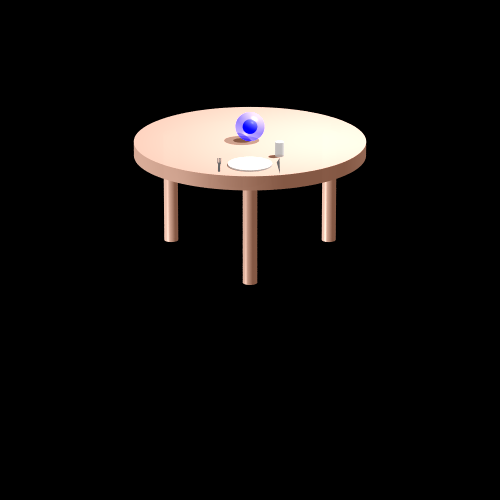
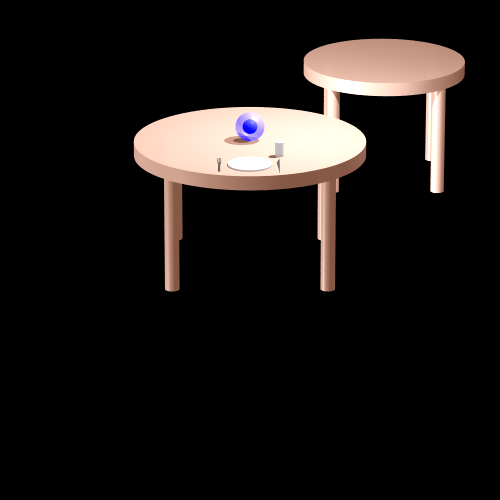
table component

diff --git a/unitTests/renderer/ImprovementTest.java b/unitTests/renderer/ImprovementTest.java
@@ -1,11 +1,14 @@
 package renderer;
 
+import objects.Table;
 import org.junit.jupiter.api.Test;
 
 import lighting.*;
 import geometries.*;
 import primitives.*;
 import renderer.scene.Scene;
+
+import java.util.Arrays;
 
 import static java.awt.Color.*;
 
@@ -71,14 +74,13 @@ private Geometry backBone= new Polygon(new Point(-1000,1000,-9000),
     @Test
     // A test for the table scene.
     public void table() {
-        scene1._geometries.add(    new Cylinder(new Ray(new Point(0, 0, -200),new Vector(0,1,0)),80d, 10d).setEmission(new Color(new java.awt.Color(119, 79, 61))) //
-                .setMaterial(new Material().setKd(0.7).setKs(0.7).setnShininess(20).setKt(0.1)),
-                new Cylinder(new Ray(new Point(0, 0, -160),new Vector(0,-1,0)),5d, 80d).setEmission(new Color(new java.awt.Color(119, 79, 61))) //
-                        .setMaterial(new Material().setKd(0.7).setKs(0.7).setnShininess(20).setKt(0.1)),
-                new Cylinder(new Ray(new Point(-56, 0, -250),new Vector(0,-1,0)),5d, 80d).setEmission(new Color(new java.awt.Color(119, 79, 61))) //
-                        .setMaterial(new Material().setKd(0.7).setKs(0.7).setnShininess(20).setKt(0.1)),
-                new Cylinder(new Ray(new Point(56, 0, -250),new Vector(0,-1,0)),5d, 80d).setEmission(new Color(new java.awt.Color(119, 79, 61))) //
-                        .setMaterial(new Material().setKd(0.7).setKs(0.7).setnShininess(20).setKt(0.1)),
+        Color tableColor = new Color(new java.awt.Color(119, 79, 61));
+        Material tableMaterial = new Material().setKd(0.7).setKs(0.7).setnShininess(20).setKt(0.1);
+        Table table1 = new Table(80d,80d,new Point(0, 0, -200) , tableColor, tableMaterial );
+        Table table2 = new Table(60d,80d,new Point(100, 0, -400), tableColor, tableMaterial);
+        scene1._geometries.addAll(table1._parts);
+        scene1._geometries.addAll(table2._parts);
+        scene1._geometries.add(
                 new Sphere(new Point(0,20,-200), 10).setEmission(new Color(BLUE)) //
                         .setMaterial(new Material().setKd(0.5).setKs(0.5).setnShininess(20).setKt(0.7)),
                 new Sphere(new Point(0,20,-200), 5).setEmission(new Color(BLUE)) //

diff --git a/src/objects/Table.java b/src/objects/Table.java
@@ -1,0 +1,40 @@
+package objects;
+
+import geometries.Cylinder;
+import geometries.Intersectable;
+import primitives.*;
+
+import java.util.Collections;
+import java.util.LinkedList;
+import java.util.List;
+
+public class Table  {
+    private double _radius;
+    private double _height;
+    private Point _center;
+    private Color _color;
+    private Material _material;
+    public List<Intersectable> _parts= new LinkedList<Intersectable>();
+    public Table(double _radius, double _height, Point _center, Color _color, Material _material) {
+        this._radius = _radius;
+        this._height = _height;
+        this._center = _center;
+        this._color = _color;
+        this._material = _material;
+
+        double x = Math.sqrt((_radius-5)*(_radius-5)/2);
+
+        Collections.addAll(_parts, new Cylinder(new Ray(_center,new Vector(0,1,0)),_radius, 10d).setEmission(_color) //
+                        .setMaterial(_material),
+                new Cylinder(new Ray(_center.add(new Vector(x,0,x)),new Vector(0,-1,0)),5d, _height).setEmission(_color) //
+                        .setMaterial(_material),
+               new Cylinder(new Ray(_center.add(new Vector(x,0,-x)),new Vector(0,-1,0)),5d, _height).setEmission(_color) //
+                        .setMaterial(_material),
+               new Cylinder(new Ray(_center.add(new Vector(-x,0,-x)),new Vector(0,-1,0)),5d, _height).setEmission(_color) //
+                        .setMaterial(_material),
+               new Cylinder(new Ray(_center.add(new Vector(-x,0,x)),new Vector(0,-1,0)),5d, _height).setEmission(_color) //
+                        .setMaterial(_material));
+    }
+
+
+}

diff --git a/src/geometries/Geometries.java b/src/geometries/Geometries.java
@@ -35,6 +35,14 @@ public class Geometries extends Intersectable {
            Collections.addAll(_intersectables,geometries);
    }
 
+   /**
+     * add geometries to _intesectables
+     * @param geometries {@link Intersectable}
+     */
+   public void addAll(List <Intersectable> geometries) {
+           _intersectables.addAll(geometries);
+   }
+
 
     /**
      * find intersections (GeoPoints) on geometry based-on given ray
